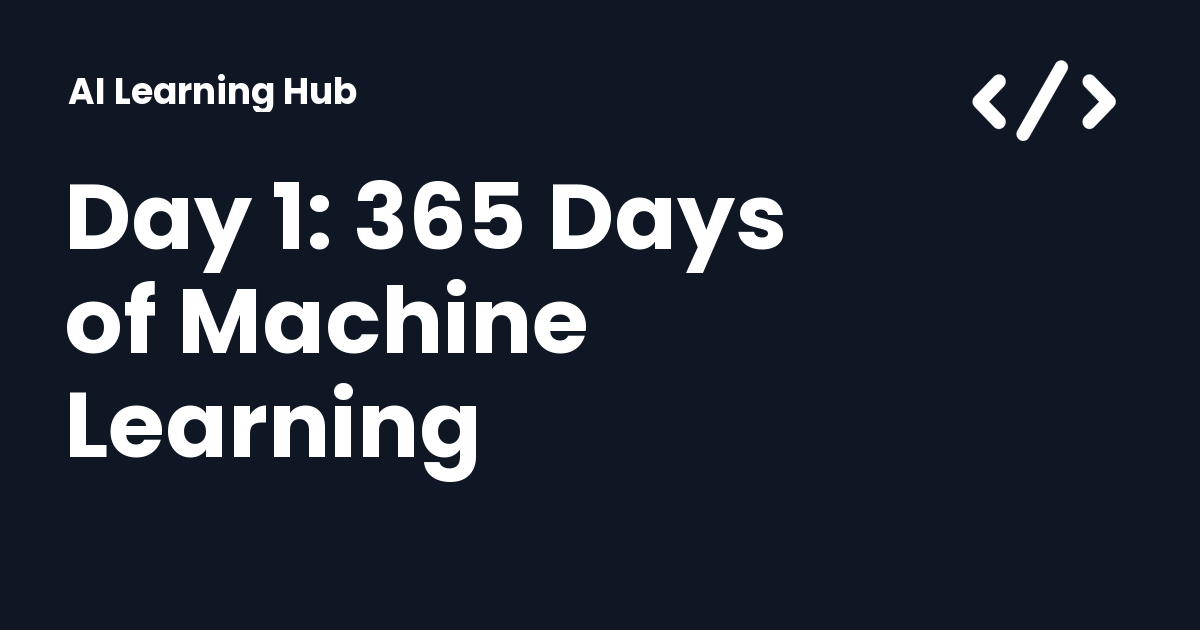
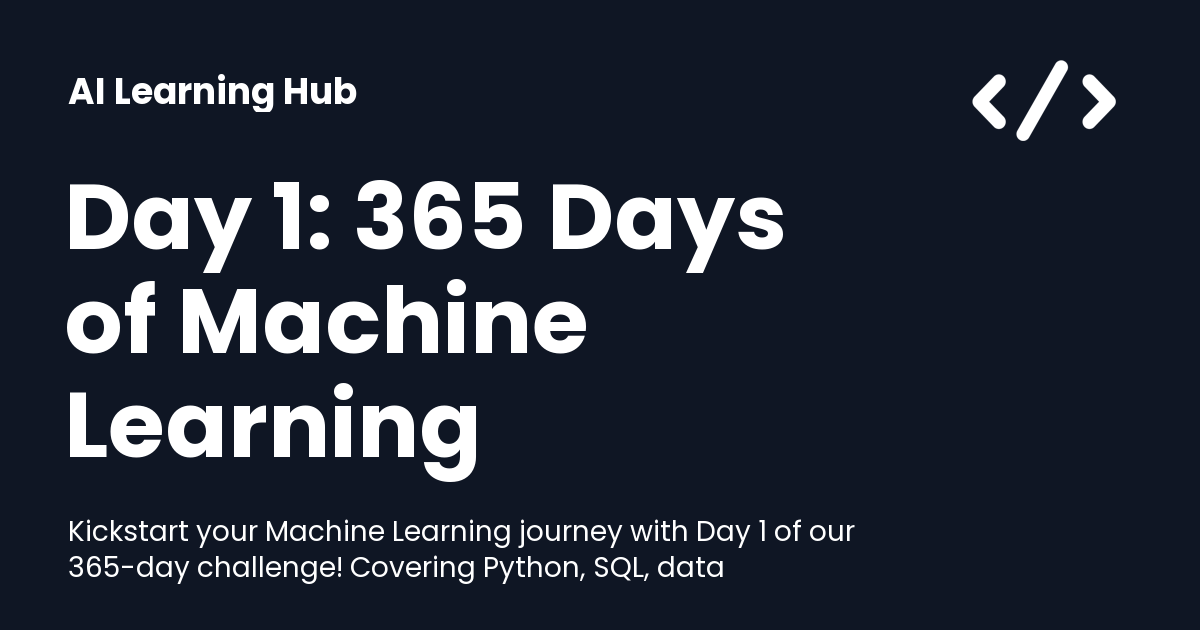
Deployed 68ed5a3 with MkDocs version: 1.4.3

Changed region(s): [[0.0617, 0.8143, 0.7092, 0.9349]]

diff --git a/365daysofml/python/day1/index.html b/365daysofml/python/day1/index.html
@@ -6,8 +6,10 @@
       <meta charset="utf-8">
       <meta name="viewport" content="width=device-width,initial-scale=1">
       
-        <meta name="description" content="Today, I am starting the &quot;365 Days of Machine Learning&quot; challenge. Every day, I will be posting and showcasing topics such as Python, SQL, data visualization with Pandas and Matplotlib, mathematics, statistics, machine learning, deep learning, and deep dives into various projects.">
+        <meta name="description" content="Kickstart your Machine Learning journey with Day 1 of our 365-day challenge! Covering Python, SQL, data visualization, statistics, and more. Ideal for beginners and those preparing for interviews.">
       
+      
+        <meta name="author" content="Dan Kornas">
       
       
         <link rel="canonical" href="https://dankornas.github.io/ailearninghub/365daysofml/python/day1/">
@@ -61,7 +63,7 @@
       
         <meta  property="og:title"  content="Day 1: 365 Days of Machine Learning Journey - AI Learning Hub" >
       
-        <meta  property="og:description"  content="None" >
+        <meta  property="og:description"  content="Kickstart your Machine Learning journey with Day 1 of our 365-day challenge! Covering Python, SQL, data visualization, statistics, and more. Ideal for beginners and those preparing for interviews." >
       
         <meta  property="og:image"  content="https://dankornas.github.io/ailearninghub/assets/images/social/365daysofml/python/day1.png" >
       
@@ -77,7 +79,7 @@
       
         <meta  name="twitter:title"  content="Day 1: 365 Days of Machine Learning Journey - AI Learning Hub" >
       
-        <meta  name="twitter:description"  content="None" >
+        <meta  name="twitter:description"  content="Kickstart your Machine Learning journey with Day 1 of our 365-day challenge! Covering Python, SQL, data visualization, statistics, and more. Ideal for beginners and those preparing for interviews." >
       
         <meta  name="twitter:image"  content="https://dankornas.github.io/ailearninghub/assets/images/social/365daysofml/python/day1.png" >
       
